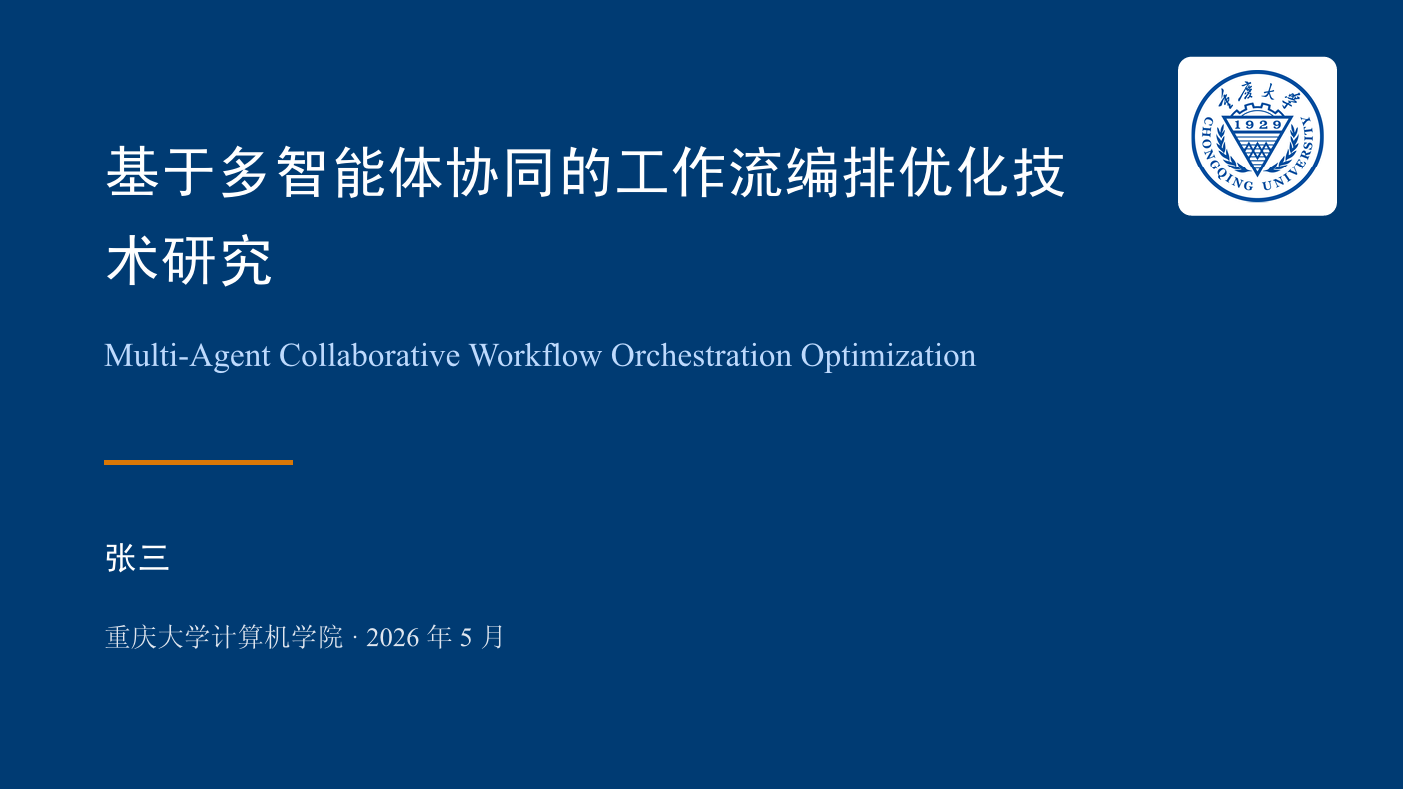
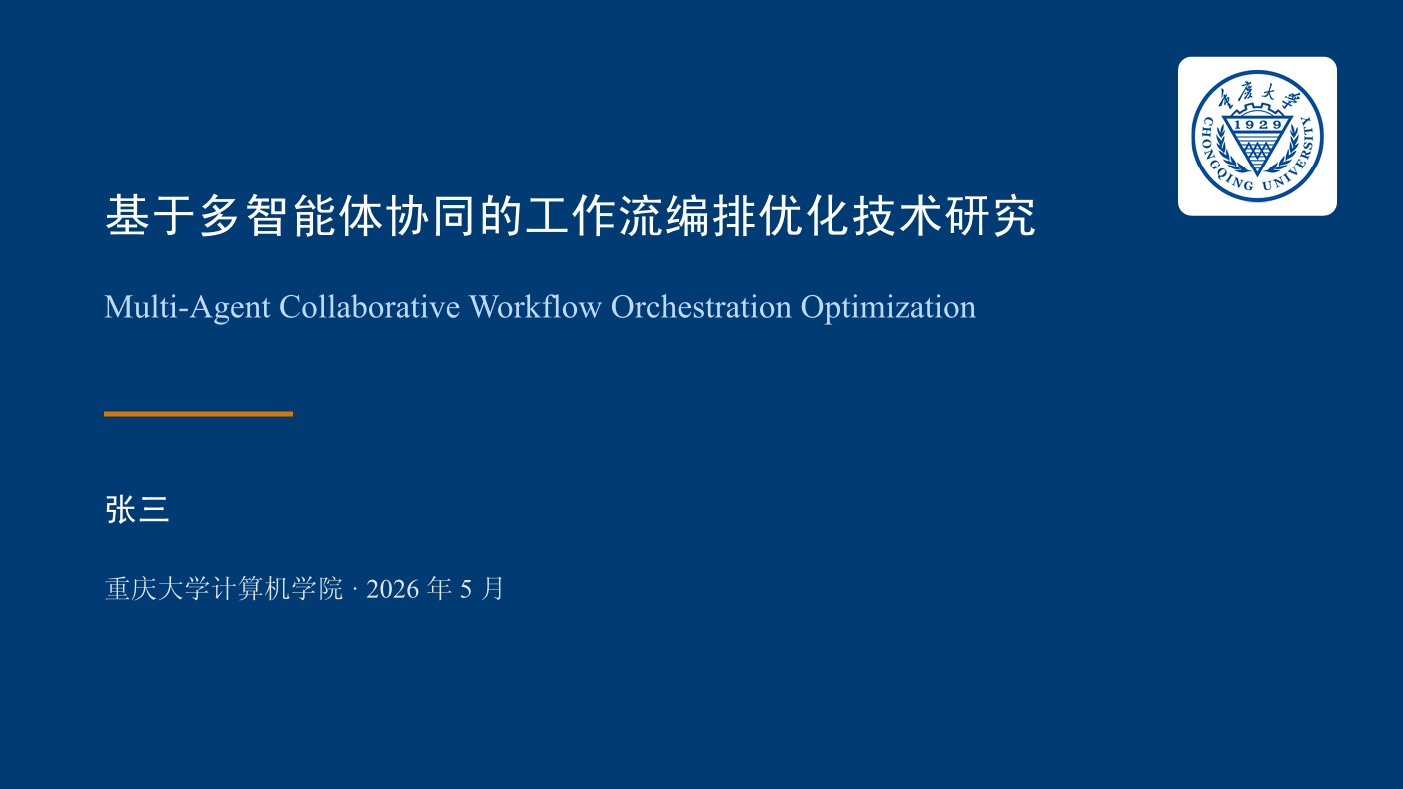
style: refine slide title size to avoid awkward line break

diff --git a/README.md b/README.md
@@ -47,7 +47,7 @@ typst compile main.typ slides.pdf
 typst compile --format png --ppi 120 main.typ "figures/preview-{p}.png"
 ```
 
-![CQUSlides-Typst 首页预览](slides/figures/preview-1.png?v=2)
+![CQUSlides-Typst 首页预览](slides/figures/preview-1.png?v=3)
 
 # 用户协议
 
